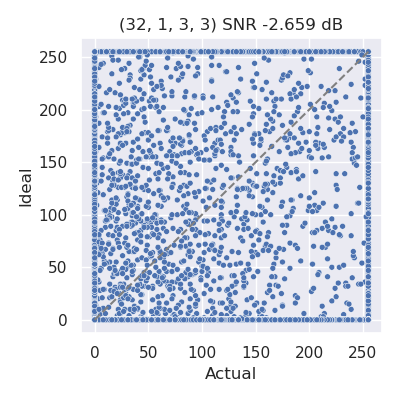
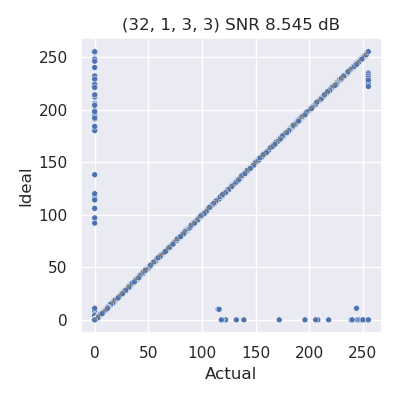
single dw node test fix

diff --git a/tests/test_rtl.py b/tests/test_rtl.py
@@ -27,6 +27,7 @@ from .utils import *
     ('fc_pw',           (1,3,16,16),   (32,3,1,1),     (256,256),  1,          1,      0,          0,          False),           
     ('fc_pw_long',      (1,40,16,16),  (32,40,1,1),    (256,256),  1,          1,      0,          0,          False),   
     ('depthwise',       (1,32,16,16),  (32,1,3,3),     (256,256),  1,          1,      0,          0,          True),
+    ('dw_nopad',        (1,32,16,16),  (32,1,3,3),     (256,256),  0,          1,      0,          0,          True),
     ('dw_short',        (1,16,16,16),  (16,1,3,3),     (256,256),  1,          1,      0,          0,          True),
 ])
 def test_qr_acc_top_single_load(
@@ -137,7 +138,7 @@ def test_qr_acc_top_single_load(
     rmse, snr = rmse_snr(u_code.reference_output, acc_result)
     save_scatter_fig(expected = u_code.reference_output,actual = acc_result, title = f"{u_code.matrix.shape} SNR {snr:.3f} dB",filename =  f"{test_name}_snr")
     print(acc_result.shape, u_code.reference_output.shape)
-    # plot_diff_channels(acc_result - stimulus['result'], tensor_format='NHWC', filename=f'{test_name}_channels')
+    plot_diff_channels(acc_result - u_code.reference_output, tensor_format='NHWC', filename=f'{test_name}_channels')
     assert snr > snr_limit, f'SNR: {snr}'
 
     return

diff --git a/tests/utils.py b/tests/utils.py
@@ -116,8 +116,8 @@ def save_scatter_fig(expected, actual, title, filename):
     fig, ax = plt.subplots()
     plt.figure(figsize=(4,4))
     ax = sns.scatterplot(
-        x=expected.flatten(), 
-        y=actual.flatten(),
+        x=actual.flatten(), 
+        y=expected.flatten(),
         size=1,
         legend=False
     )
@@ -130,7 +130,7 @@ def save_scatter_fig(expected, actual, title, filename):
     # plt.savefig(f'images/{filename}.svg') # Saving scatter plots to SVG is a little too slow
     plt.savefig(f'images/png/{filename}.png')
     plt.close()
-
+ 
 def plot_diff_channels(diff, tensor_format='NCHW', filename='diff_channels', bitPrecision=8):
     """
     Plots all channels of the diff tensor in a subplot grid.

diff --git a/tests/stim_lib/stimulus_gen.py b/tests/stim_lib/stimulus_gen.py
@@ -121,7 +121,7 @@ def _generate_random_quantized_weights(
         scale = np.random.uniform(0.01,0.2,kernel_shape[0])
         qb = quant.QuantizedTensor(quantized_values = b, scale = scale, zero_point=0)
     else:
-        qb = quant.QuantizedTensor(shape = kernel_shape, precision = kernel_bits, mode='3sigma')
+        qb = quant.QuantizedTensor(shape = kernel_shape, precision = kernel_bits, mode='maxmin')
 
     qb.quantized_values = qb.quantized_values.astype(kernel_dtype)
 
@@ -332,6 +332,8 @@ def sample_onnx_qlinearconv(
     '''
 
     np.random.seed(seed)
+
+    kernel_bits = 7 if depthwise else 1
 
     qa = _generate_random_quantized_acts(
         ifmap_shape=ifmap_shape,

diff --git a/tests/stim_lib/compile.py b/tests/stim_lib/compile.py
@@ -50,6 +50,9 @@ class QrAccNodeCode(object):
             zero_point=mapped_node.x_zp,
             channel_minor=True
         )
+
+        self.nx_model = nx_model
+
         # The writable matrix is the kernel for depthwise nodes, because they go into qracc
         self.matrix = mapped_node.matrix if not mapped_node.depthwise else mapped_node.kernel
         return

diff --git a/tests/test_marp_rtl.py b/tests/test_marp_rtl.py
@@ -35,6 +35,9 @@ def get_single_node_marp_code(
         nx_model, nx_model.graph.node[node_id].input[0], input_dict=input_dict).shape
     input_tensor = np.random.randint(0, 256, input_tensor_shape).astype(np.uint8)
 
+    print(node)
+    print(bin)
+
     u_code = QrAccNodeCode(
         mapped_node = node,
         mapped_bin = bin,
